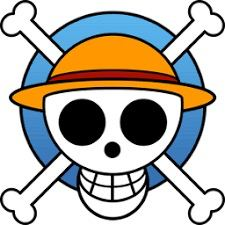
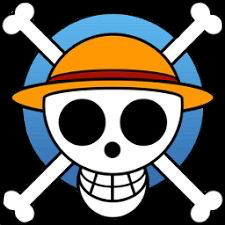
images

diff --git a/index.html b/index.html
@@ -23,7 +23,9 @@
 
 <header class="header">
 
-    <a href="#" class="logo"> <span>One</span>Gym </a>
+    <a href="#" class="logo">
+        <img src="images/onepiece.jpg" alt="OneGym Logo" style="width: 4rem; height: 4rem;"> <span>One</span>Gym
+    </a>
 
     <div id="menu-btn" class="fas fa-bars"></div>
 

diff --git a/style.css b/style.css
@@ -720,3 +720,7 @@ br{
 	
 
 }
+#logo{
+	height: 40px;
+	width: 40px;
+}
